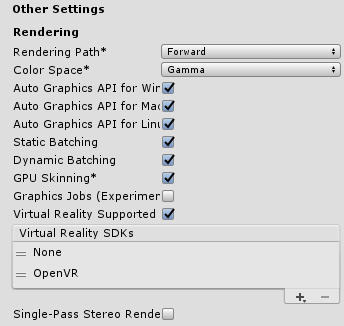
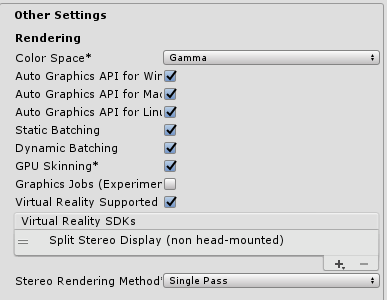
Updated GettingStarted guide

Changed region(s): [[0.0, 0.0, 1.0, 1.0]]

diff --git a/GettingStarted.md b/GettingStarted.md
@@ -1,13 +1,10 @@
 # OSVR for Unity Developers
 
-> Last Updated November 29, 2016
+> Last Updated September 18, 2017
 
 ## Why use OSVR?
 
-Open-source Virtual Reality (OSVR) is an open-source software platform for VR/AR applications. It provides abstraction layers for VR devices and peripherals so that a game developer can support many different VR devices with one SDK, rather than maintaining a separate SDK for each supported device. 
-OSVR provides interfaces – pipes of data – as opposed to an API tied to a specific piece of hardware. If you want hand position, for example, OSVR will give you hand position regardless of whether the data comes from a Microsoft Kinect, Razer Hydra, or Leap Motion. 
-Game developers can focus on what they want to do with the data, as opposed to how to obtain it.
-
+Open-source Virtual Reality (OSVR) is an open-source software platform for VR/AR applications. It provides abstraction layers for VR devices and peripherals so that a game developer can support many different VR devices with one SDK, rather than maintaining a separate SDK for each supported device. OSVR provides generic interfaces which can be thought of like pipes of data between applications and hardware. Data is accessible to applications developers via a ["semantic path"](https://osvr.github.io/presentations/20150419-osvr-software-framework-path-tree/) naming system similar to URLs. An OSVR server plugin specifies which paths it is supplying data for, while OSVR client applications looks for data at the semantic paths it cares about. For example, OSVR server plugins for Leap Motion and Razer Hydra send hand positional tracking data to the semantic paths **/me/hands/left** and **/me/hands/right**. The OSVR application looks for pose data at those named paths, oblivious to what hardware is connected.
 For a more complete introduction to OSVR, please visit: http://osvr.github.io/whitepapers/introduction_to_osvr/
 
 The rest of this document assumes you're ready to start developing VR applications in Unity with the OSVR-Unity plugin.
@@ -48,6 +45,15 @@ The Tracker View utility (OSVRTrackerView.exe) is helpful for quickly checking i
 ![Tracker View no positional](https://github.com/OSVR/OSVR-Unity/blob/master/images/tracker_view_nopos.png?raw=true)
 
 ## Getting Started with OSVR-Unity
+### Unity Native VR Support
+As of September 18, 2017, the plugin includes experimental support for Unity's native VR SDK. This means that instead of using the **DisplayController** and **VRDisplayTracked** prefabs (described below) for rendering, instead we can enable Unity's VR Support and Single-Pass rendering path, rendering both eyes with the same camera. This is a major optimization over the two-camera setup OSVR-Unity has used previously. It is recommended to use this new rendering path if possible.
+
+The **OSVR-UnityVR-Demo.unity** scene demonstrates the new **OsvrStereoCamera** prefab which uses Unity’s split-screen stereo VR rendering. To use this rendering path, make sure “Virtual Reality Supported” is checked in Player Settings, and Split-Screen Stereo (non head-mounted) is selected as the SDK.
+
+![OSVR-Unity Player Settings](https://github.com/OSVR/OSVR-Unity/blob/master/images/osvr_unity_player.png?raw=true)
+
+Note that when using this rendering path, you won't using any of the DisplayController, VRViewer, VREye, or VRSurface prefabs described below.
+### Tutorials and Resources
 For an introductory video tutorial, visit: https://youtu.be/xSOq3bOBPxs
 
 Let’s examine the OSVR-Unity plugin. You can view the source code at https://github.com/OSVR/OSVR-Unity. 
@@ -99,10 +105,6 @@ The **SetRoomRotationUsingHead** script “recenters” the room when a key is p
 This prefab provides very similar controls to the Unity first-person controller scripts. Mouse-look can be controlled with the “M” key, by default.
 
 That covers the basics! There are examples of tracked controllers, eyetrackers, and locomotion in other example scenes (see TrackerView.unity). If you want to enable features like positional tracking and Direct Mode rendering, that all happens in the server configuration file.
-
-## Unity Native VR Supported
-The **OSVR-UnityVR-Demo.unity** uses a prefab which harnesses Unity's split-screen stereo VR rendering. Use the OsvrStereoCameraParent prefab instead of VRDisplayTracked if you want to use the Unity native VR SDK. This is the fastest rendering path.
-If you run this scene, make sure "Virtual Reality Supported" is checked in Player Settings, and Split-Screen Stereo (non head-mounted) is selected as the SDK.
 
 ## RenderManager and Unity-Rendering Plugin
 RenderManager provides a number of additional functions in support of VR rendering. It adds features such as Direct Mode support, distortion correction, client-side predictive tracking, asynchronous time warp, overfill, and oversampling. For a more information about OSVR-RenderManager, including an overview of configuration options, visit: https://github.com/sensics/OSVR-RenderManager
@@ -200,12 +202,10 @@ Quality settings will differ per machine/graphics card capabilities. Make sure V
 ![OSVR-Unity Quality Settings](https://github.com/OSVR/OSVR-Unity/blob/master/images/osvr_unity_quality.png?raw=true)
 
 ## Player Settings
-The “Virtual Reality Supported” checkbox does not need to be checked, since OSVR is not a native Unity VR platform. If you are supporting multiple VR SDKs and need to check the "Virtual Reality Supported", make sure to add "None" for OSVR support. You can launch your OSVR game with the command-line option:
+As of September 18, 2017, there is experimental support for Unity's native VR rendering. If you're using the **OsvrStereoCamera** prefab, the “Virtual Reality Supported” option in Player Settings should be enabled. If you're using **DisplayController** and **VRViewer** prefabs instead, either disable the “Virtual Reality Supported” option in Player Settings, or add "None". You can launch your OSVR game with the command-line option:
 ```
 MyGame.exe -vrmode none 
 ```
-
-![OSVR-Unity Player Settings](https://github.com/OSVR/OSVR-Unity/blob/master/images/osvr_unity_player.png?raw=true)
 
 ## Building for Android
 The libraries required for building for Android are included in the OSVR-Unity source. These will eventually be migrated out of the OSVR-Unity repo when the CI build is updated and will copy them for us when the unitypackage is created.
